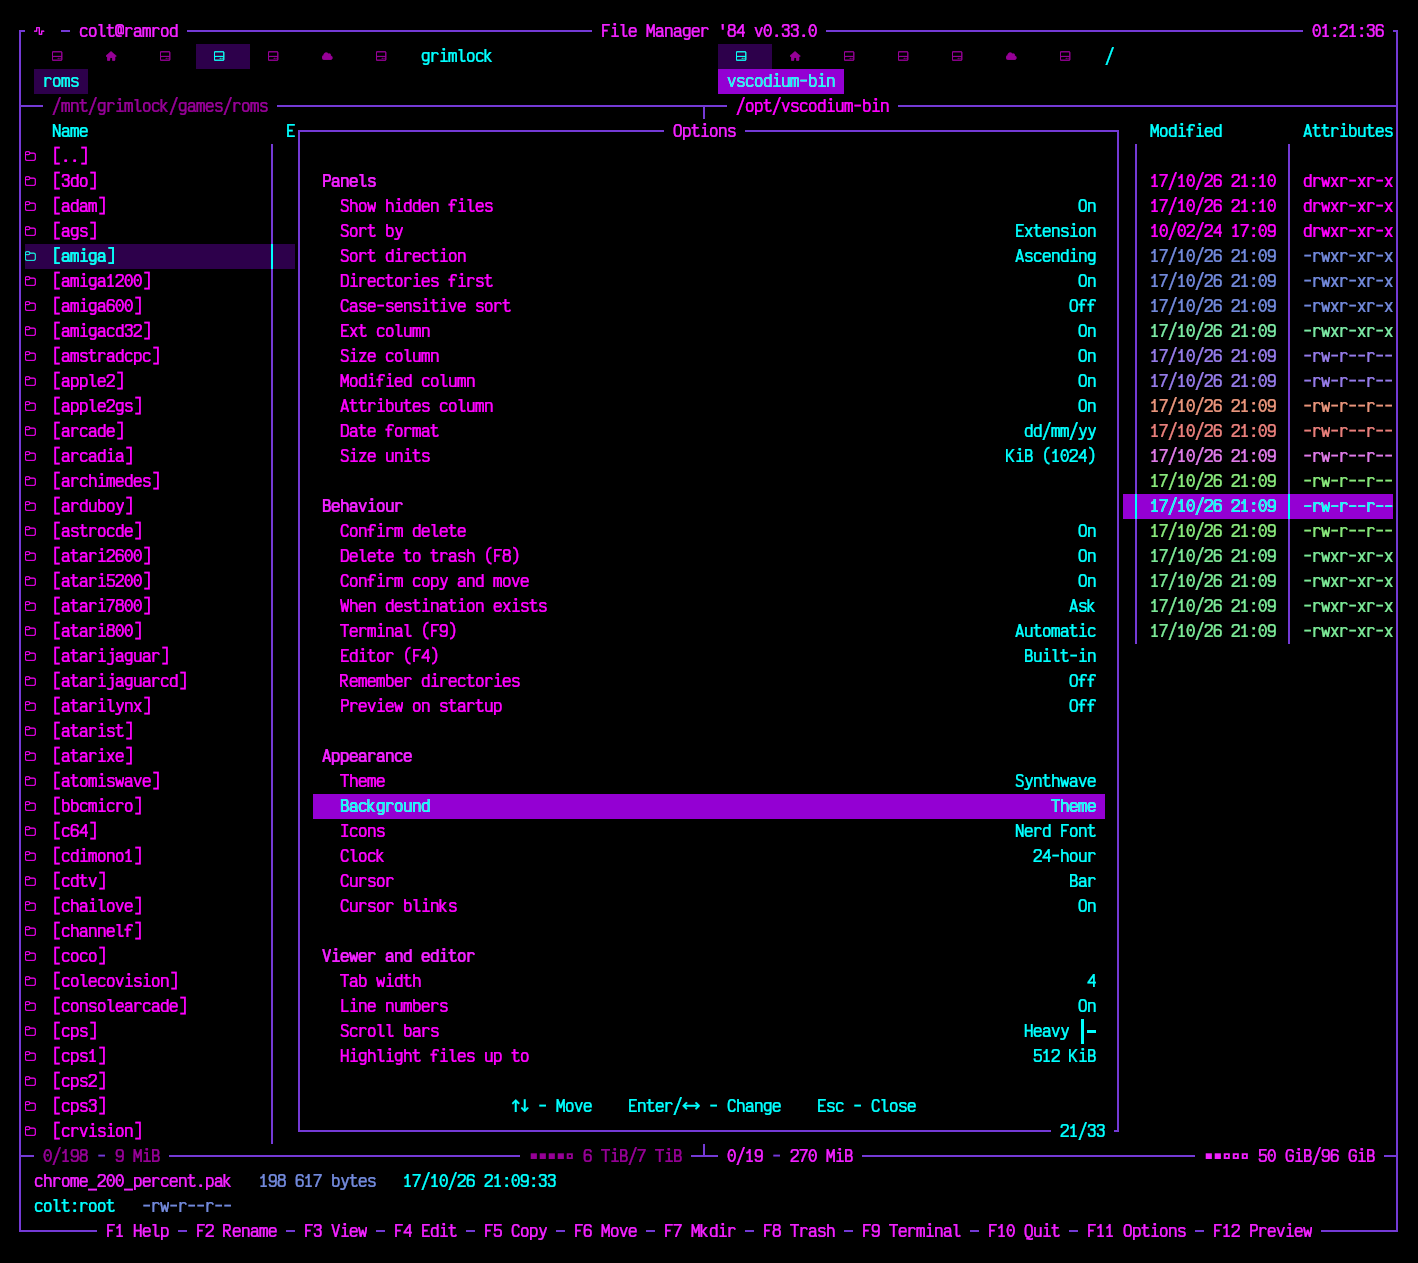
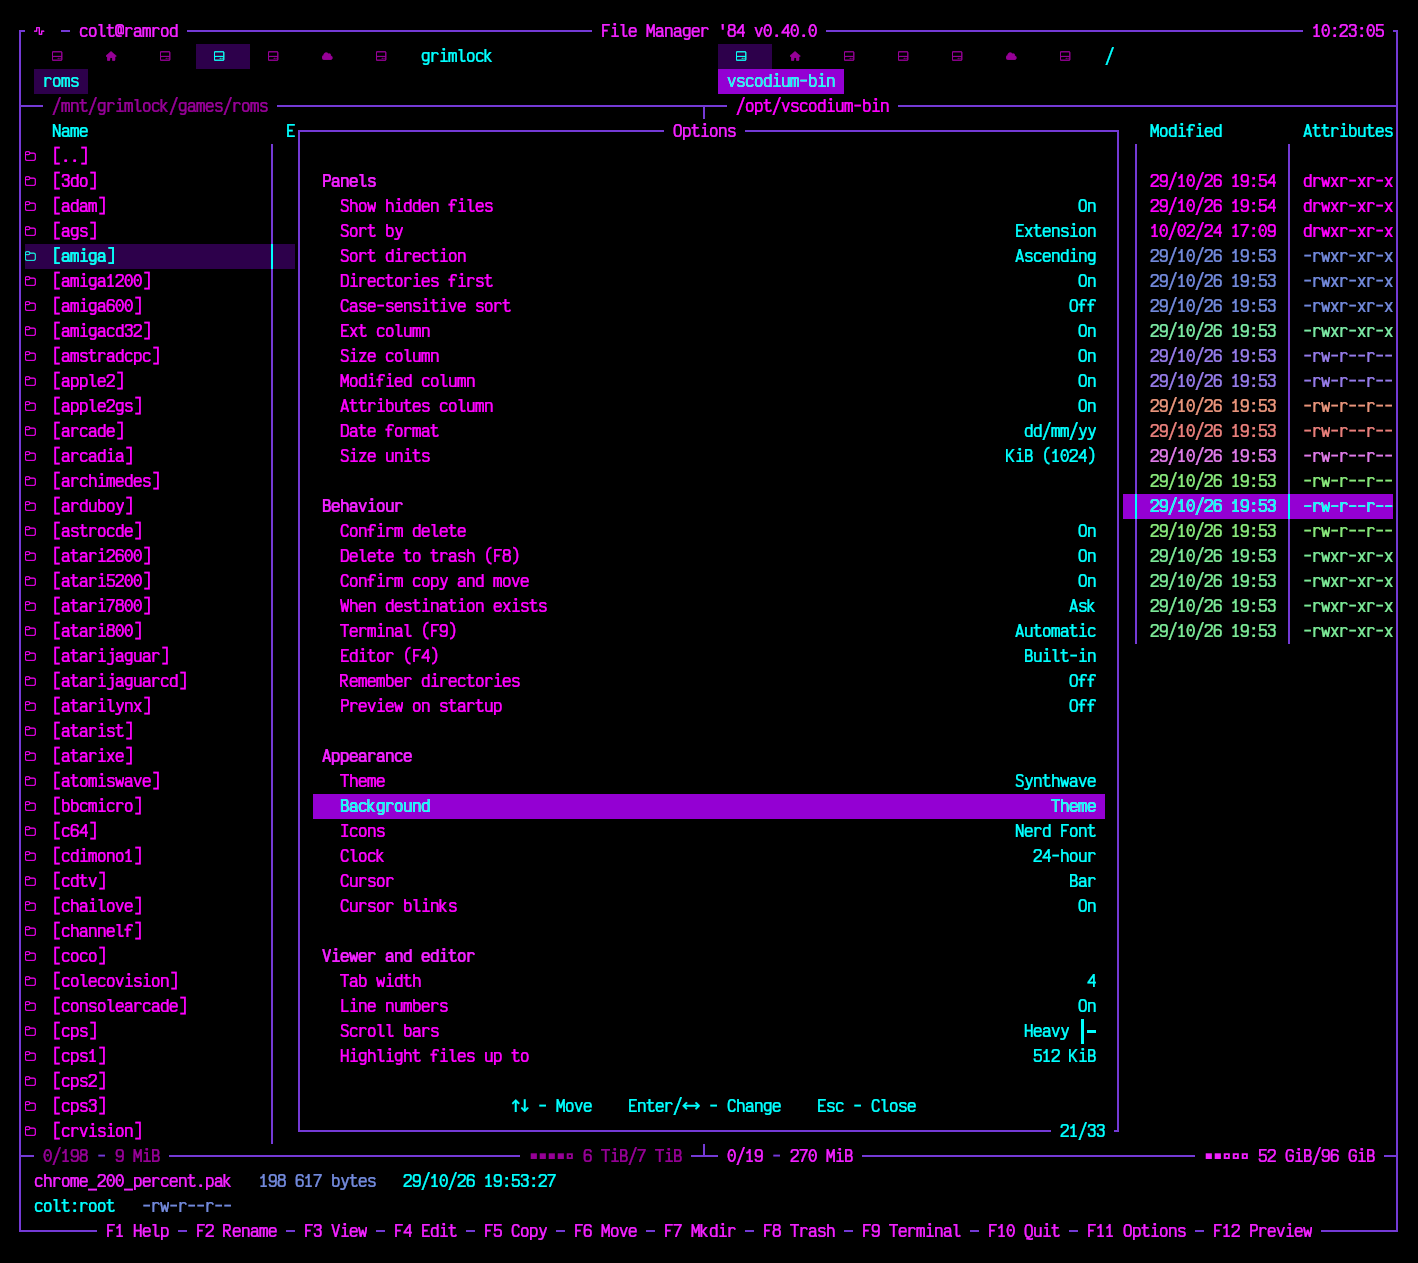
Update version to 0.40.0

diff --git a/src/ui/help.rs b/src/ui/help.rs
@@ -45,6 +45,7 @@ const HELP: &[(&str, &[&str])] = &[
             "Ctrl+L - Go to path (or click it)",
             "  Tab completes a name",
             "  Alt+Left/Right back/forward",
+            "  Alt+Down every directory visited",
             "  Click the git branch to switch it",
             "Ctrl+D - Bookmarks",
             "Ctrl+T/Ctrl+W - New/close tab",
@@ -54,6 +55,7 @@ const HELP: &[(&str, &[&str])] = &[
             "+/- select/deselect by pattern, * invert",
             "  Alt+* invert with directories",
             "Ctrl+S - Filter the panel by pattern",
+            "Ctrl+B - Every file below, flat",
             "Ctrl+C/Alt+C - Copy paths/names",
             "Ctrl+F3..F6 - Sort name/ext/date/size",
             "Ctrl+R - Reload both panels",

diff --git a/README.md b/README.md
@@ -15,7 +15,7 @@
 
 💜 *A synthwave-infused dual-pane TUI file manager, forged in Rust* 💜
 
-**Version 0.39.0** ▀▄▀▄ *Neon Dreams Edition*
+**Version 0.40.0** ▀▄▀▄ *Neon Dreams Edition*
 
 </div>
 
@@ -36,16 +36,20 @@
 <td align="center" valign="top" width="50%"><img src="https://raw.githubusercontent.com/coltwillcox/fm84/master/images/screen-main-1.png" width="380"><br><sub><b>F11 - Options</b><br>Panels, behaviour, appearance, viewer and editor. Every row changes in place with <code>Enter</code> or <code>&larr;</code>/<code>&rarr;</code>.</sub></td>
 </tr>
 <tr>
-<td align="center" valign="top" width="50%"><img src="https://raw.githubusercontent.com/coltwillcox/fm84/master/images/screen-main-2.png" width="380"><br><sub><b>Outrun</b><br>One of fifteen palettes - hot pink on near-black.</sub></td>
+<td align="center" valign="top" width="50%"><img src="https://raw.githubusercontent.com/coltwillcox/fm84/master/images/screen-main-2.png" width="380"><br><sub><b>Outrun</b><br>One of seventeen palettes - hot pink on near-black.</sub></td>
 <td align="center" valign="top" width="50%"><img src="https://raw.githubusercontent.com/coltwillcox/fm84/master/images/screen-main-3.png" width="380"><br><sub><b>Nord</b><br>The muted blue-grey end of the same range.</sub></td>
 </tr>
 <tr>
-<td align="center" valign="top" width="50%"><img src="https://raw.githubusercontent.com/coltwillcox/fm84/master/images/screen-main-4.png" width="380"><br><sub><b>Catppuccin Latte</b><br>Light themes too, and the whole interface follows the palette, viewer and editor included.</sub></td>
-<td align="center" valign="top" width="50%"><img src="https://raw.githubusercontent.com/coltwillcox/fm84/master/images/screen-main-5.png" width="380"><br><sub><b>F12 - Preview</b><br>The opposite pane shows whatever the cursor is on, without leaving the panel you are in.</sub></td>
+<td align="center" valign="top" width="50%"><img src="https://raw.githubusercontent.com/coltwillcox/fm84/master/images/screen-main-4.png" width="380"><br><sub><b>Picard</b><br>A starship's console - orange, periwinkle and tan on black, the cursor a deep blue band.</sub></td>
+<td align="center" valign="top" width="50%"><img src="https://raw.githubusercontent.com/coltwillcox/fm84/master/images/screen-main-5.png" width="380"><br><sub><b>Military</b><br>Olive drab and khaki, with brass titles and an amber marker.</sub></td>
 </tr>
 <tr>
-<td align="center" valign="top" width="50%"><img src="https://raw.githubusercontent.com/coltwillcox/fm84/master/images/screen-main-6.png" width="380"><br><sub><b>F3 - Images</b><br>A JPEG as coloured ASCII, each character on its own colour. <code>F</code> switches Fit and Fill, <code>+</code>/<code>-</code> zoom, <code>X</code> cycles Image, Text and Hex.</sub></td>
-<td align="center" valign="top" width="50%"><img src="https://raw.githubusercontent.com/coltwillcox/fm84/master/images/screen-main-7.png" width="380"><br><sub><b>F4 - Editor</b><br>Syntax highlighting, line numbers, selection and undo - editing fm84's own source.</sub></td>
+<td align="center" valign="top" width="50%"><img src="https://raw.githubusercontent.com/coltwillcox/fm84/master/images/screen-main-6.png" width="380"><br><sub><b>Catppuccin Latte</b><br>Light themes too, and the whole interface follows the palette, viewer and editor included.</sub></td>
+<td align="center" valign="top" width="50%"><img src="https://raw.githubusercontent.com/coltwillcox/fm84/master/images/screen-main-7.png" width="380"><br><sub><b>F12 - Preview</b><br>The opposite pane shows whatever the cursor is on, without leaving the panel you are in.</sub></td>
+</tr>
+<tr>
+<td align="center" valign="top" width="50%"><img src="https://raw.githubusercontent.com/coltwillcox/fm84/master/images/screen-main-8.png" width="380"><br><sub><b>F3 - Images</b><br>A JPEG as coloured ASCII, each character on its own colour. <code>F</code> switches Fit and Fill, <code>+</code>/<code>-</code> zoom, <code>X</code> cycles Image, Text and Hex.</sub></td>
+<td align="center" valign="top" width="50%"><img src="https://raw.githubusercontent.com/coltwillcox/fm84/master/images/screen-main-9.png" width="380"><br><sub><b>F4 - Editor</b><br>Syntax highlighting, line numbers, selection and undo - editing fm84's own source.</sub></td>
 </tr>
 </table>
 
@@ -75,6 +79,7 @@ Built with 💜 in **Rust** using **Ratatui** + **Crossterm**.
 - ⬅ **Backspace** - ascend to parent realm
 - 🧭 **Ctrl+L** - or a click on a panel's path - edit the active panel's path in place, in the line above it, and go there with **Enter** (**Esc**, or a click anywhere else, leaves it as it was). **Tab** fills out a name as far as the entries agree, `~` is home, and a path without a leading `/` starts from the panel. A file is landed on, in the directory it is in; somewhere that is not there is said to be, and the panel stays put
 - ⏪ **Alt+← / Alt+→** - back and forward through where the tab has been, as in a browser, landing on the entry the cursor was on. Each tab keeps its own, up to 50 steps back; a directory gone since is passed over
+- 🕰 **Alt+↓ directory history** - every directory either panel has been in this run, across all their tabs, newest first and each once, opening on the newest that is not where you are - so Alt+↓ then Enter goes back to where you just were. Typing narrows it to the paths that hold every word typed, in any order (`mus k` finds `~/music/rock`), lower case matching either case; **↑/↓** and **PgUp/PgDn** choose, **Enter** goes, **Esc** closes. One gone since is said to be, and the panel stays put
 - 🔖 **Bookmarks** - **Ctrl+D** lists the directories kept to go back to: **Enter**, or **1**…**9**, takes the panel there, **A** or **Insert** keeps the panel's directory, **D** or **Delete** forgets the one highlighted, **Shift+↑/↓** move it up or down the list. The panel's own directory is marked. One that has gone since is said to be, and the panel stays put. Kept in `bookmarks` beside the config, a `bookmark = path` line each, fine to edit by hand
 - 🔗 **Symlinked directories** - listed and entered like the real thing
 - 🔒 **Directories you cannot read** - refused with the reason, and the panel stays where it was
@@ -89,6 +94,7 @@ Built with 💜 in **Rust** using **Ratatui** + **Crossterm**.
 - ⬆⬇ **Navigate matches** - Up/Down arrows jump between results
 - 🧹 **Esc** - clear the search vibes
 - 🧪 **Ctrl+S filter** - narrows the panel to what a pattern matches, as it is typed, for a directory of thousands where search only moves the cursor. A word on its own is looked for anywhere in the name (`rep` finds `report.txt` and `prep/`); `*`, `?` and `[a-z]` work as for `+`, several separated by `;`, and one ending in `/` keeps only directories. Lower case matches either case. **Enter** keeps it, shown in the path bar; **Esc** puts back the filter there was; an empty one shows everything again. `..` always stays. What is selected but filtered out is let go, so a copy or delete never takes what cannot be seen. The filter belongs to its directory: rereads are narrowed too, Ctrl+U takes it along, and going anywhere else drops it
+- 🌳 **Ctrl+B flat view** - every file under the panel's directory in one list, as Total Commander's branch view, each by its path from there (`sub/deep/notes.txt`). Sorted by size (Ctrl+F6), it finds what is taking the space. Directories are walked rather than listed; links to them are not followed, nothing in `/proc`, `/sys` and the like is gone into, and what is hidden stays hidden unless F11 shows it. Copy, move, delete, view, edit, compare and select work on the files as anywhere - F5 copies them without the directories they are in - and F2 renames one where it is. Inside an archive too. The path bar says `flat`; it combines with Ctrl+S, so `*.rs` across a whole tree works. Ctrl+B again goes back, onto what holds the file the cursor was on, and going anywhere else drops it. A tree too big to wait for gets **Esc** as any slow directory does, and the list stops at 100000 files, saying so
 
 ### 🔭 Find Files (Alt+F7)
 - 🎯 **By name, and by what is in them** - a name pattern as `+` takes it (`*.jpg;*.png`, `*/` for directories), and text the file has to hold, lower case matching either case. **Ctrl+F7** works too, for desktops that take Alt+F7 for moving windows. The last search is offered again
@@ -227,8 +233,8 @@ Grouped under four headings, in a popup no taller than the panels: the list scro
 - 👁 **Preview on startup** - start with F12's preview open
 
 **Appearance**
-- 🎨 **Theme** - switched on the spot, 15 of them:
-  - fm84's own: **Synthwave**, **Outrun**, **Vaporwave**, **High contrast**
+- 🎨 **Theme** - switched on the spot, 17 of them:
+  - fm84's own: **Synthwave**, **Outrun**, **Vaporwave**, **High contrast**, **Military**, **Picard**
   - dark: **Dracula**, **Monokai**, **Nord**, **Gruvbox Dark**, **Solarized Dark**, **Tokyo Night**, **Catppuccin Mocha**
   - light: **Solarized Light**, **Gruvbox Light**, **Catppuccin Latte**, **GitHub Light**
   - each brings its own background, gutter and syntax colours; on a light one, extension colours darken and pictures draw dark ink on the light background
@@ -285,6 +291,7 @@ Grouped under four headings, in a popup no taller than the panels: the list scro
 | `Alt+I` | Same directory in the other panel |
 | `Ctrl+L` | Go to a path (`Tab` completes a name; or click the path) |
 | `Alt+←` / `Alt+→` | Back / forward through where the tab has been |
+| `Alt+↓` | Every directory visited, across the tabs (type to narrow, `Enter` go) |
 | `Ctrl+D` | Bookmarks (`A` add, `D` remove, `Enter` or `1`…`9` go) |
 | `Enter` | Open directory, go into an archive, or open a file |
 | `Shift+Enter` / `Ctrl+O` | Open as the system would (an archive too) |
@@ -293,6 +300,7 @@ Grouped under four headings, in a popup no taller than the panels: the list scro
 | `PageUp` / `PageDown` | Page navigation |
 | `[a-z0-9]` | Quick search |
 | `Ctrl+S` | Filter the panel by a pattern, as it is typed (`Esc` puts back the one there was) |
+| `Ctrl+B` | Flat view: every file under the directory in one list; again to go back |
 | `Esc` | Clear search / Close dialogs, the Viewer and the Editor / Stop directory sizing / Stop waiting on a directory that has not answered |
 | `F1` | Help |
 | `F2` | Rename |
@@ -388,7 +396,7 @@ fm84 ~/Music /mnt       # left in ~/Music, right in /mnt
 fm84 --shell-init bash  # print cd84 for bash (or zsh, fish, powershell)
 fm84 --choosedir FILE   # on quitting, write the active panel's directory to FILE
 fm84 --help             # usage, and where the config lives
-fm84 --version          # fm84 0.39.0
+fm84 --version          # fm84 0.40.0
 ```
 
 📖 `man ./doc/fm84.1` reads the manual page from a checkout; the release archives carry `fm84.1` beside the binary, for `/usr/local/share/man/man1`.
@@ -488,5 +496,5 @@ Released under the [MIT License](https://github.com/coltwillcox/fm84/blob/master
 <p align="center">
   <strong>💜 FM84 💜</strong><br>
   <em>Where every file operation feels like a synth drop</em><br>
-  <code>▀▄▀▄▀▄ v0.39.0 ▄▀▄▀▄▀</code>
+  <code>▀▄▀▄▀▄ v0.40.0 ▄▀▄▀▄▀</code>
 </p>

diff --git a/CHANGELOG.md b/CHANGELOG.md
@@ -6,6 +6,15 @@ All notable changes to FM84 will be documented in this file.
 
 ---
 
+## [0.40.0] - 2026-10-30
+
+### ✨ Added
+- 🕰 **Directory history with Alt+↓** - every directory either panel has been in this run, across all their tabs, newest first and each once, opening on the newest that is not where the panel is. Typing narrows it to the paths that hold every word typed, in any order, lower case matching either case; **Enter** goes, and one gone since is said to be
+- 🌳 **Flat view with Ctrl+B** - every file under the panel's directory in one list, by its path from there, as Total Commander's branch view; sorted by size, it finds what takes the space. Directories are walked, not listed, links to them not followed, and pseudo-filesystems not gone into. Every operation works on the files, F2 renaming one where it is; inside archives too, and with Ctrl+S's filter. Ctrl+B again goes back, onto what holds the file the cursor was on. At most 100000 files, and Esc stops a walk that takes too long
+- 🎨 **Two themes** - **Military**, olive drab and khaki with brass titles and an amber marker, and **Picard**, a starship's console in orange, periwinkle, lavender and tan on black
+
+---
+
 ## [0.39.0] - 2026-10-30
 
 ### ✨ Added
